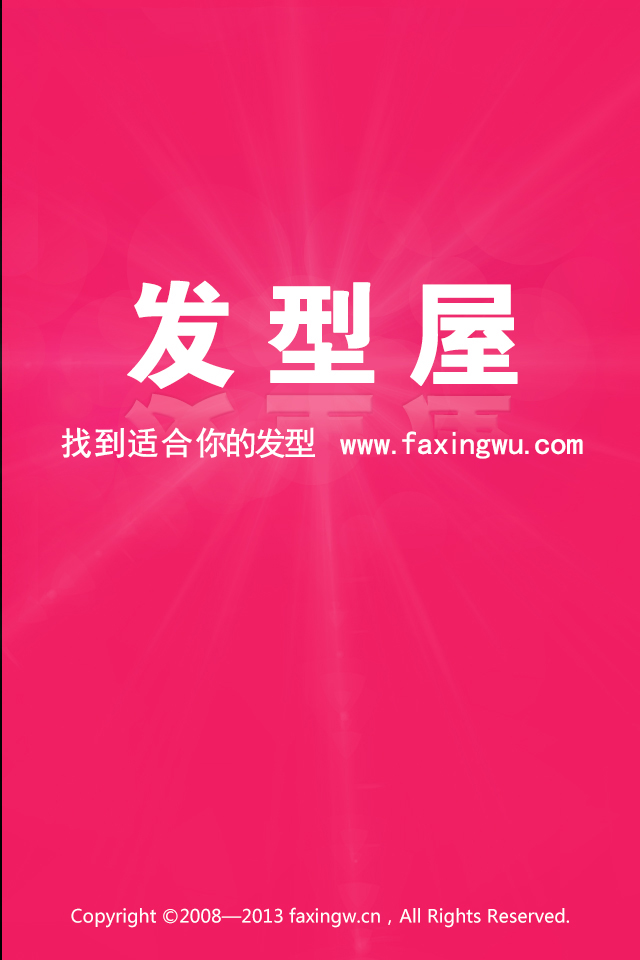
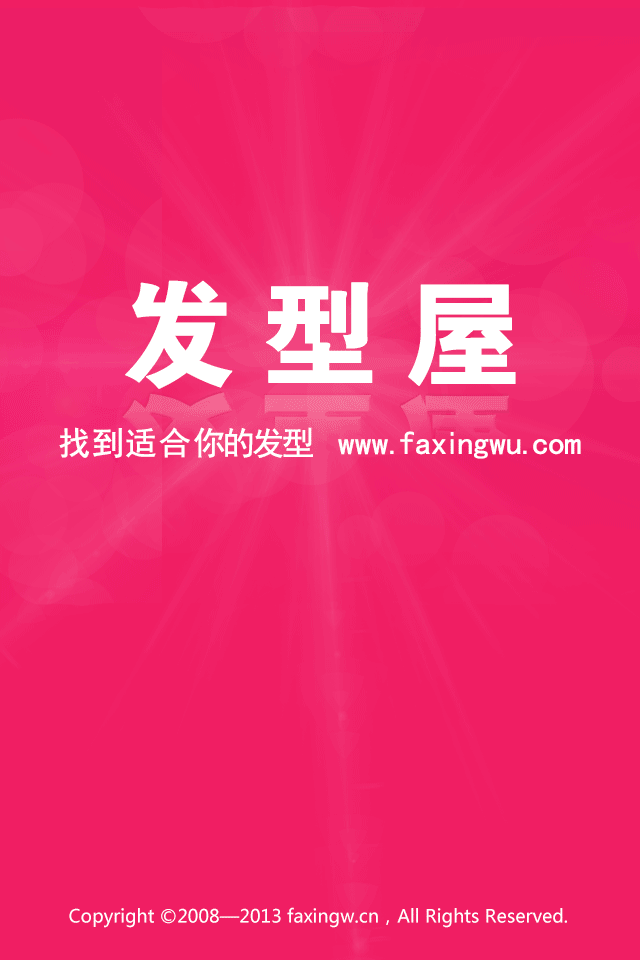
重新下载后调整
调整tencentauto···、prefix.pch、@2x图片

diff --git a/hairStyleHouse/findStyleDetailViewController.m b/hairStyleHouse/findStyleDetailViewController.m
@@ -411,24 +411,47 @@
 
 -(void)selectImage:(NSInteger)_index
 {
-    int count = dresserArray.count;
-    // 1.封装图片数据
-    NSMutableArray *photos = [NSMutableArray arrayWithCapacity:count];
-    for (int i = 0; i<count; i++) {
-        // 替换为中等尺寸图片
-        NSString *url = [[dresserArray[i] objectForKey:@"work_image"] stringByReplacingOccurrencesOfString:@"thumbnail" withString:@"bmiddle"];
-        MJPhoto *photo = [[MJPhoto alloc] init];
-        photo.work_id =[dresserArray[i] objectForKey:@"work_id"];
-        photo.url = [NSURL URLWithString:url]; // 图片路径
-//        photo.srcImageView = self.view.subviews[i]; // 来源于哪个UIImageView
-        [photos addObject:photo];
+    if ([sign isEqualToString:@"1"]) {
+        int count = dresserArray.count;
+        // 1.封装图片数据
+        NSMutableArray *photos = [NSMutableArray arrayWithCapacity:count];
+        for (int i = 0; i<count; i++) {
+            // 替换为中等尺寸图片
+            NSString *url = [[dresserArray[i] objectForKey:@"work_image"] stringByReplacingOccurrencesOfString:@"thumbnail" withString:@"bmiddle"];
+            MJPhoto *photo = [[MJPhoto alloc] init];
+            photo.work_id =[dresserArray[i] objectForKey:@"work_id"];
+            photo.url = [NSURL URLWithString:url]; // 图片路径
+            //        photo.srcImageView = self.view.subviews[i]; // 来源于哪个UIImageView
+            [photos addObject:photo];
+        }
+        
+        // 2.显示相册
+        browser=nil;
+        browser = [[MJPhotoBrowser alloc] init];
+        browser.currentPhotoIndex = _index; // 弹出相册时显示的第一张图片是？
+        browser.photos = photos; // 设置所有的图片
     }
-    
-    // 2.显示相册
-    browser=nil;
-    browser = [[MJPhotoBrowser alloc] init];
-    browser.currentPhotoIndex = _index; // 弹出相册时显示的第一张图片是？
-    browser.photos = photos; // 设置所有的图片
+   else
+   {
+       int count = dresserArray1.count;
+       // 1.封装图片数据
+       NSMutableArray *photos = [NSMutableArray arrayWithCapacity:count];
+       for (int i = 0; i<count; i++) {
+           // 替换为中等尺寸图片
+           NSString *url = [[dresserArray1[i] objectForKey:@"work_image"] stringByReplacingOccurrencesOfString:@"thumbnail" withString:@"bmiddle"];
+           MJPhoto *photo = [[MJPhoto alloc] init];
+           photo.work_id =[dresserArray1[i] objectForKey:@"work_id"];
+           photo.url = [NSURL URLWithString:url]; // 图片路径
+           //        photo.srcImageView = self.view.subviews[i]; // 来源于哪个UIImageView
+           [photos addObject:photo];
+       }
+       
+       // 2.显示相册
+       browser=nil;
+       browser = [[MJPhotoBrowser alloc] init];
+       browser.currentPhotoIndex = _index; // 弹出相册时显示的第一张图片是？
+       browser.photos = photos; // 设置所有的图片
+   }
     [self.navigationController pushViewController:browser animated:YES];
 //    [browser show];
 }
